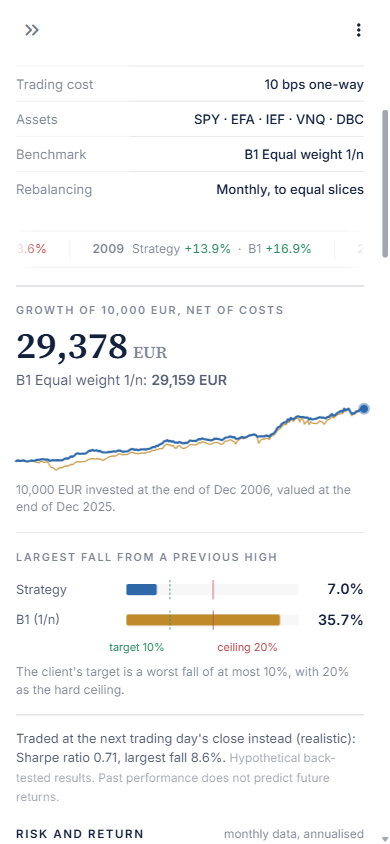
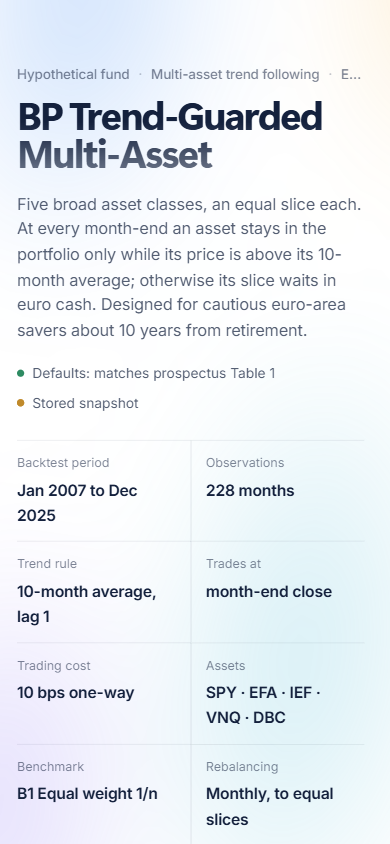
Round 2: liquid-glass design, clean masthead (spec strip, quiet status line), replay follows every rerun
The replay's data now ride on its root element and a static script rebuilds when they change, so it can never show an
earlier run. Phone: hero stacks again, compact measure cards, no sideways scroll. Docs screenshots refreshed.

diff --git a/app.py b/app.py
@@ -493,20 +493,16 @@ is_default = all(ui[k] == core.DEFAULTS[k] for k in core.DEFAULTS)
 
 # ---------------------------------------------------------------- masthead
 LIVE = data["origin"] == "live"
-html("<div class='rule-top'></div><div class='eyebrow'><span><b>Backtest factsheet</b></span><span>Hypothetical fund"
-     "</span><span>Multi-asset · trend following</span><span>Base currency EUR</span>"
-     f"<span class='live{'' if LIVE else ' snap'}'><i></i>{'Live market data' if LIVE else 'Stored snapshot'}</span></div>")
-m1, m2 = st.columns([1.75, 1], gap="large")
-with m1:
-    html(f"<div class='fund'>{core.STRATEGY.replace('Multi-Asset', '<span class=nw>Multi-Asset</span>')}</div>"
-         "<div class='lede'>Five broad asset classes, an equal slice each. At every month-end an asset stays in the "
-         f"portfolio only while its price is above its {ui['sma']}-month average; otherwise its slice waits in euro "
-         "cash. Designed for cautious euro-area savers about 10 years from retirement.</div>")
-    if is_default:
-        html("<span class='badge ok'><i></i>Defaults: matches prospectus Table 1</span>")
-    else:
-        html("<span class='badge cu'><i></i>Custom assumptions: differs from prospectus</span>")
-facts_slot = m2.empty()
+status = ("<span class='st ok'><i></i>Defaults: matches prospectus Table 1</span>" if is_default else
+          "<span class='st cu'><i></i>Custom assumptions: differs from prospectus</span>")
+html("<div class='mh-ctx'>Hypothetical fund<i>·</i>Multi-asset trend following<i>·</i>EUR</div>"
+     f"<div class='fund'>{core.STRATEGY.replace('Multi-Asset', '<span class=nw>Multi-Asset</span>')}</div>"
+     "<div class='lede'>Five broad asset classes, an equal slice each. At every month-end an asset stays in the "
+     f"portfolio only while its price is above its {ui['sma']}-month average; otherwise its slice waits in euro "
+     "cash. Designed for cautious euro-area savers about 10 years from retirement.</div>"
+     f"<div class='mh-meta'>{status}<span class='st live{'' if LIVE else ' snap'}'><i></i>"
+     f"{'Live market data' if LIVE else 'Stored snapshot'}</span></div>")
+facts_slot = st.empty()
 if data_warning:
     st.warning(data_warning, icon=":material/cloud_off:")
 for n in notes:
@@ -541,8 +537,9 @@ facts = [("Backtest period", f"{first:%b %Y} to {last:%b %Y}"), ("Observations",
          ("Trend rule", f"{ui['sma']}-month average, lag {ui['lag']}"), ("Trades at", trade_at),
          ("Trading cost", f"{ui['cost_bps']} bps one-way"), ("Assets", " · ".join(ui["tickers"])),
          ("Benchmark", BL), ("Rebalancing", "Monthly, to equal slices")]
-facts_slot.markdown("<div class='facts'><div class='fh'>Key facts</div><dl>"
-                    + "".join(f"<dt>{a}</dt><dd>{b}</dd>" for a, b in facts) + "</dl></div>", unsafe_allow_html=True)
+facts_slot.markdown("<div class='spec' aria-label='Key facts'>"
+                    + "".join(f"<div><span>{a}</span><b>{b}</b></div>" for a, b in facts) + "</div>",
+                    unsafe_allow_html=True)
 
 
 def pct(x, d=1):

diff --git a/glass.py b/glass.py
@@ -133,7 +133,35 @@ CSS = """
 
   .ii { padding: 1.2rem 1.4rem .6rem; border-top: 1px solid var(--g-line) !important; }
 
+  /* masthead: one quiet context line, a big headline, the lede, a single status line, a spec strip */
+  .mh-ctx { font-size: .92rem; font-weight: 500; color: var(--ink3); letter-spacing: -.01em; margin-top: 1.6rem;
+            animation: rise .7s cubic-bezier(.2,.7,.2,1) both; }
+  .mh-ctx i { font-style: normal; margin: 0 .55rem; opacity: .45; }
+  .fund { font-size: clamp(2.5rem, 1.2rem + 3.8vw, 4.4rem); line-height: .98; letter-spacing: -.048em; font-weight: 680;
+          margin: .55rem 0 1.1rem; max-width: 15ch;
+          background: linear-gradient(180deg, currentColor 35%, color-mix(in srgb, currentColor 62%, transparent));
+          -webkit-background-clip: text; background-clip: text; -webkit-text-fill-color: transparent; padding-bottom: .06em; }
+  .lede { font-size: 1.16rem; line-height: 1.55; max-width: 42rem; letter-spacing: -.01em; }
+  .mh-meta { display: flex; flex-wrap: wrap; gap: .5rem 1.6rem; font-size: .86rem; color: var(--ink2); margin: 1.2rem 0 0;
+             animation: rise .8s cubic-bezier(.2,.7,.2,1) .2s both; }
+  .mh-meta .st { display: inline-flex; align-items: center; gap: .5rem; }
+  .mh-meta .st > i { position: relative; width: .45rem; height: .45rem; border-radius: 50%; display: inline-block; background: var(--ok); }
+  .mh-meta .st.cu > i, .mh-meta .st.snap > i, .mh-meta .st.snap > i::after { background: var(--ochre); }
+  .spec { display: grid; grid-template-columns: repeat(4, minmax(0, 1fr)); margin: 2.4rem 0 .6rem; border-top: 1px solid var(--g-line);
+          animation: rise .9s cubic-bezier(.2,.7,.2,1) .28s both; }
+  .spec > div { padding: .95rem 1.2rem .95rem 0; border-bottom: 1px solid var(--g-line); min-width: 0; }
+  .spec > div:not(:nth-child(4n+1)) { padding-left: 1.2rem; border-left: 1px solid var(--g-line); }
+  .spec span { display: block; font-size: .78rem; color: var(--ink3); margin-bottom: .3rem; }
+  .spec b { display: block; font-weight: 560; font-size: .98rem; letter-spacing: -.012em; }
+  @media (prefers-reduced-motion: reduce) { .mh-ctx, .mh-meta, .spec { animation: none !important; } }
+
   @media (max-width: 640px) {
+    .mh-ctx { margin-top: .6rem; font-size: .84rem; white-space: nowrap; overflow: hidden; text-overflow: ellipsis; }
+    .fund { font-size: 2.45rem; }
+    .lede { font-size: 1.02rem; }
+    .spec { grid-template-columns: repeat(2, minmax(0, 1fr)); margin-top: 1.6rem; }
+    .spec > div, .spec > div:not(:nth-child(4n+1)) { padding: .8rem .9rem .8rem 0; border-left: 0; }
+    .spec > div:nth-child(2n) { padding-left: .9rem; border-left: 1px solid var(--g-line); }
     .hero { grid-template-columns: 1fr; border-radius: var(--r-lg); }
     .hero > div, .hero > div + div { padding: 1.2rem 1.15rem; }
     .facts, .st-key-kpis [data-testid="stColumn"]:has([data-testid="stHorizontalBlock"]) { border-radius: var(--r-lg); }
